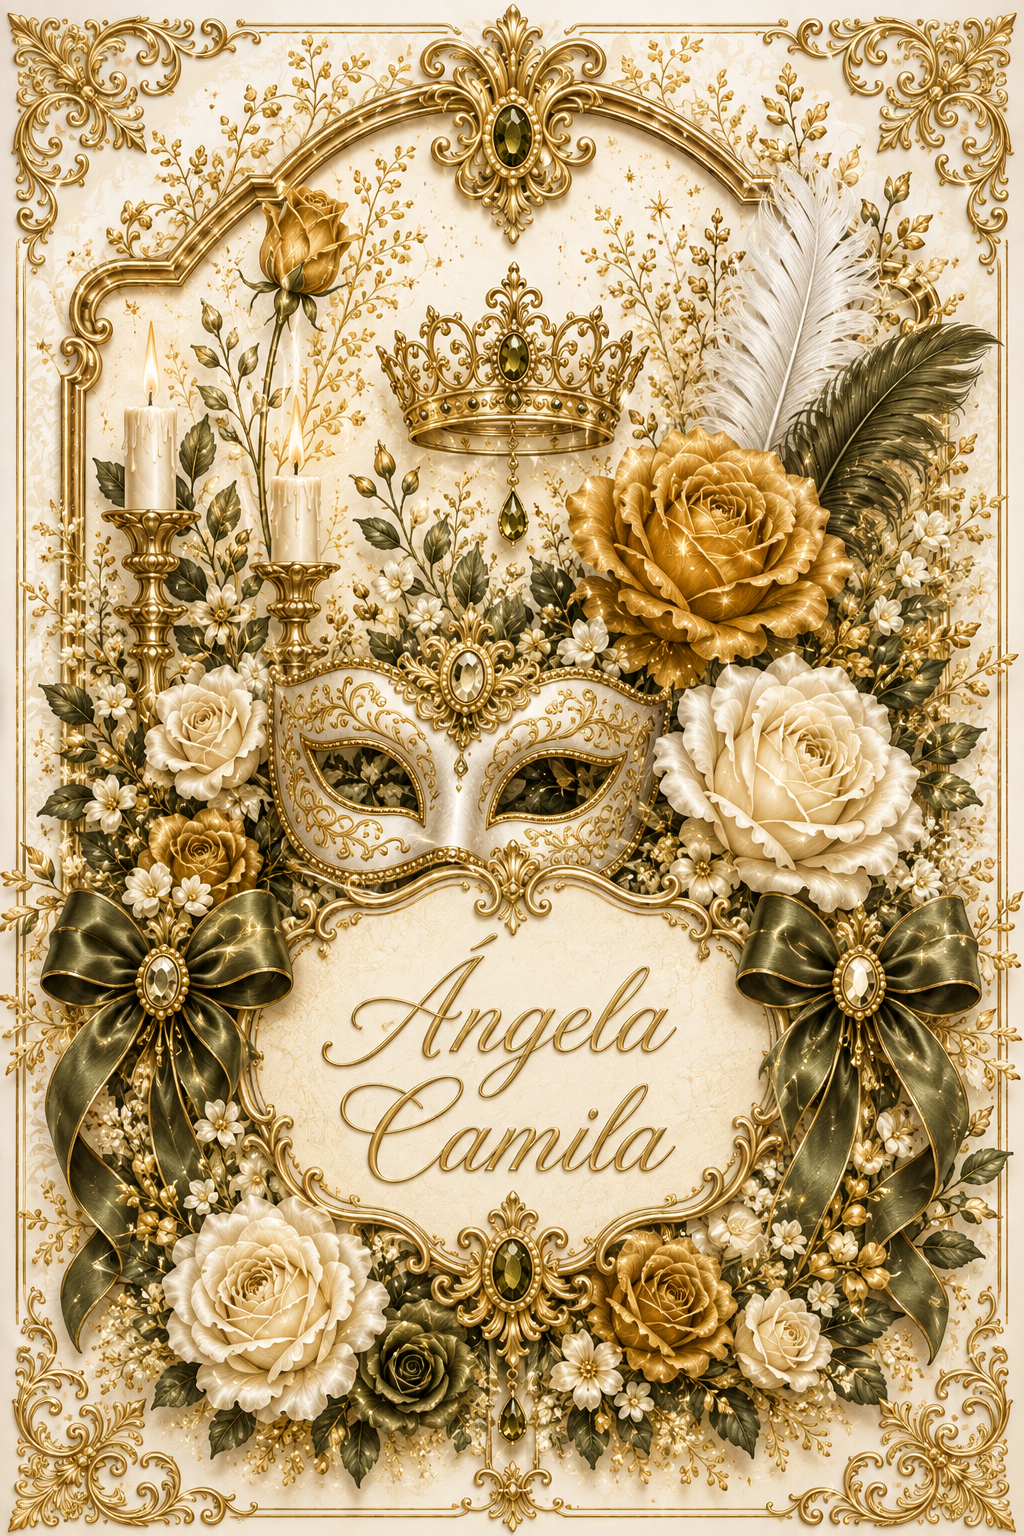
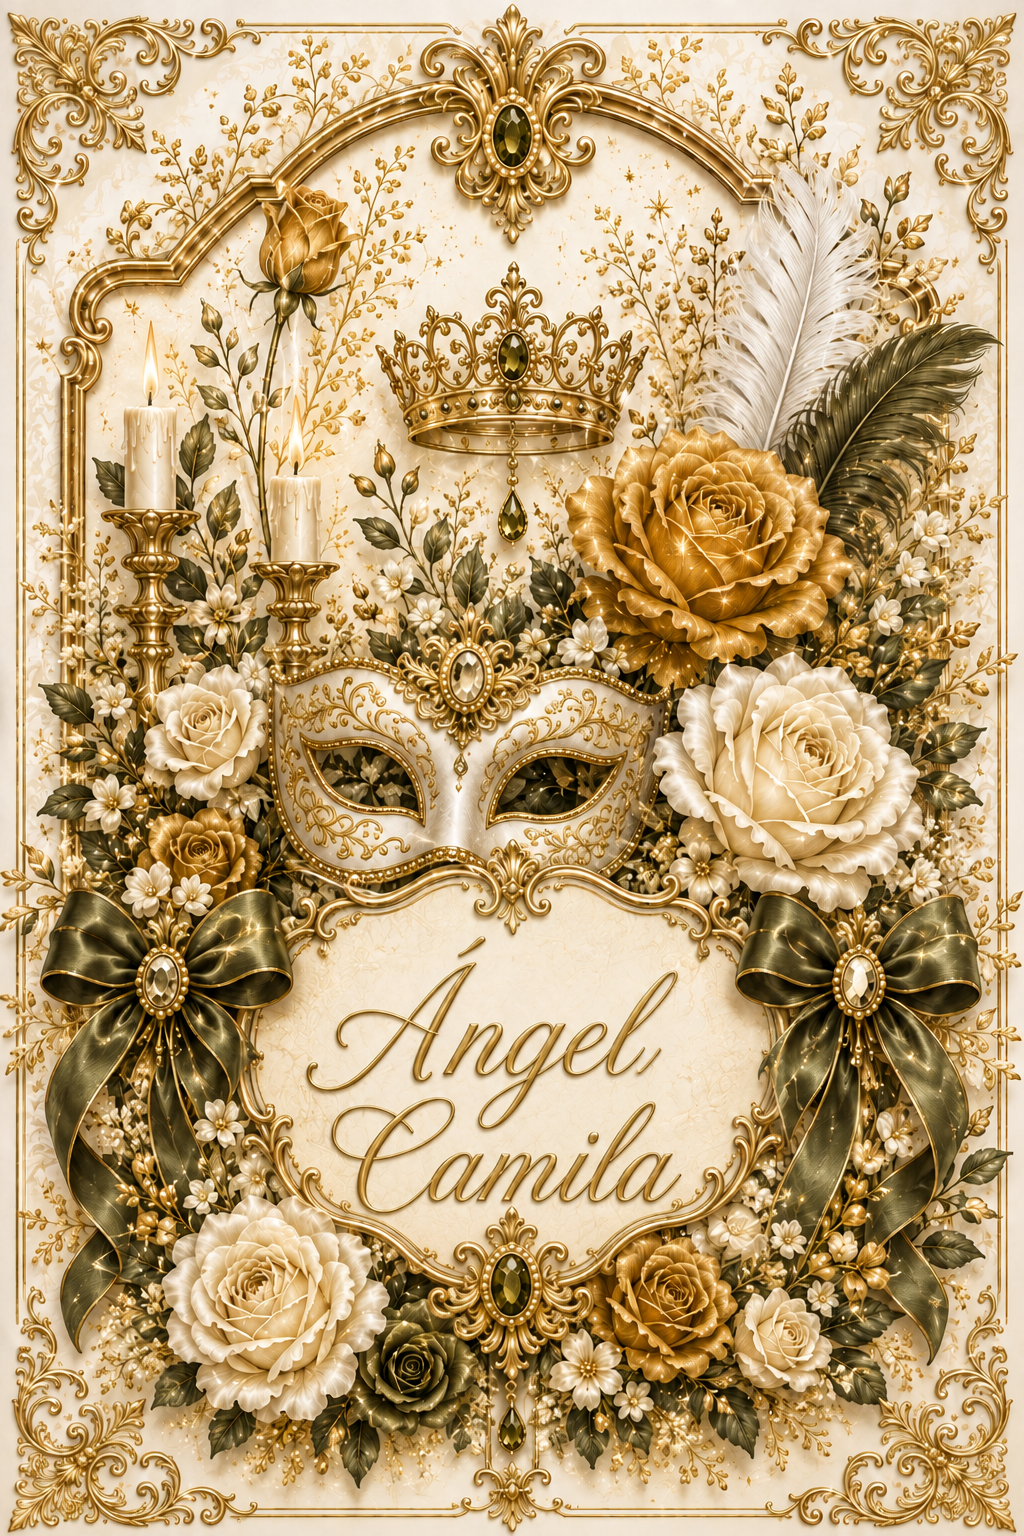
“Jueves_27”

diff --git a/invi_agosto/full_royal_corona_blancomascaras_angelac/invitacion.html b/invi_agosto/full_royal_corona_blancomascaras_angelac/invitacion.html
@@ -4,7 +4,7 @@
 <head>
   <meta charset="UTF-8" />
   <meta name="viewport" content="width=device-width, initial-scale=1" />
-  <title>Mis XV | Ángela Camila ♛</title>
+  <title>Mis XV | Ángel Camila ♛</title>
   <script src="https://app.arteinvita.com/widget.js"></script>
 
   <!-- TIPOGRAFÍAS -->
@@ -1113,7 +1113,7 @@
             </div>
 
             <div class="hero-bottom">
-              <div class="hero-names">Ángela Camila</div>
+              <div class="hero-names">Ángel Camila</div>
               <div class="hero-subline">El gran día llegó</div>
               <div class="hero-date">Mis XV Años</div>
             </div>
@@ -1220,7 +1220,7 @@
 
       <!-- CEREMONIA -->
       <div class="event-card reveal">
-        <img src="img/iglesia.jpeg" alt="Ceremonia" class="event-photo">
+        <img src="img/galeria/1.jpeg" alt="Ceremonia" class="event-photo">
 
         <div class="event-content">
           <div class="content">
@@ -1268,7 +1268,7 @@
             </div>
 
             <p class="event-address">
-              La celebración continuará en el mismo lugar,
+             
               <strong>Salón Sevilla</strong>.
             </p>
 
@@ -1461,7 +1461,7 @@
 
           <div class="gallery-slider reveal reveal-right">
             <div class="gallery-slide-frame">
-              <img id="gallerySlide" src="img/galeria/1.jpeg" alt="Foto de la galería">
+              <img id="gallerySlide" src="img/galeria/8.jpeg" alt="Foto de la galería">
               <button class="gallery-nav prev" id="galleryPrev" type="button">‹</button>
               <button class="gallery-nav next" id="galleryNext" type="button">›</button>
             </div>
@@ -1573,7 +1573,7 @@
                 <div class="intro-script" style="margin-top:1.2rem;">
                   Con cariño y mucha emoción,<br>
                   de mi corazón al tuyo.<br><br>
-                  Ángela Camila
+                  Ángel Camila
                 </div>
               </div>
 
@@ -1592,7 +1592,7 @@
 
   </main>
 
-  <footer>© 2026 Mis XV Ángela Camila</footer>
+  <footer>© 2026 Mis XV Ángel Camila</footer>
   <button class="scroll-top" id="scrollTopBtn" aria-label="Ir arriba">↑</button>
 
   <script>
@@ -1757,18 +1757,17 @@
 
     document.addEventListener("DOMContentLoaded", () => {
       const galleryImages = [
-        "img/galeria/1.jpeg",
-        "img/galeria/2.jpeg",
-        "img/galeria/3.jpeg",
-        "img/galeria/4.jpeg",
-        "img/galeria/5.jpeg",
-        "img/galeria/6.jpeg",
-        "img/galeria/7.jpeg",
         "img/galeria/8.jpeg",
-        "img/galeria/9.jpeg",
+        "img/galeria/2.jpeg",
+      
+        
+        "img/galeria/5.jpeg",
+       
+        "img/galeria/7.jpeg",
+       
+     
         "img/galeria/10.jpeg",
-        "img/galeria/11.jpeg",
-        "img/galeria/12.jpeg",
+      
         "img/galeria/13.jpeg",
         "img/galeria/14.jpeg",
 

diff --git a/invi_agosto/full_royal_corona_blancomascaras_angelac/sobre.html b/invi_agosto/full_royal_corona_blancomascaras_angelac/sobre.html
@@ -12,6 +12,11 @@
             src: url('fonts/NovaQuinta_PERSONAL_USE_ONLY.otf') format('truetype');
             /* Asegúrate de que el archivo esté en la carpeta correcta */
         }
+		
+		@font-face {
+      font-family: 'Gabriola';
+      src: url('fonts/gabriola Font Download.ttf') format('truetype');
+    }
 
         body {
             display: flex;
@@ -39,12 +44,13 @@
 
         .name {
             position: absolute;
-            bottom: 120px;
+            bottom: 180px;
             width: 100%;
             text-align: center;
             font-size: 55px;
             font-weight: 500;
-            font-family: 'Nova Quinta', cursive;
+            font-family:  'Gabriola';
+            font-variant-ligatures: none;
 
             background:  #9b6b12;
 
@@ -54,6 +60,13 @@
             color: transparent;
 
             
+        }
+
+        .accent-fix {
+            font-family: 'Gabriola';
+            font-style: italic;
+           
+			font-size: 75px;
         }
 
         .button {
@@ -124,7 +137,7 @@
 <body>
     <div class="container" id="envelope">
 
-        <div class="name">Ángela<br>Camila</div>
+        <div class="name"><span class="accent-fix">Á</span>ngel Camila</div>
 
         <button class="button" id="openButton">
             ABRIR
